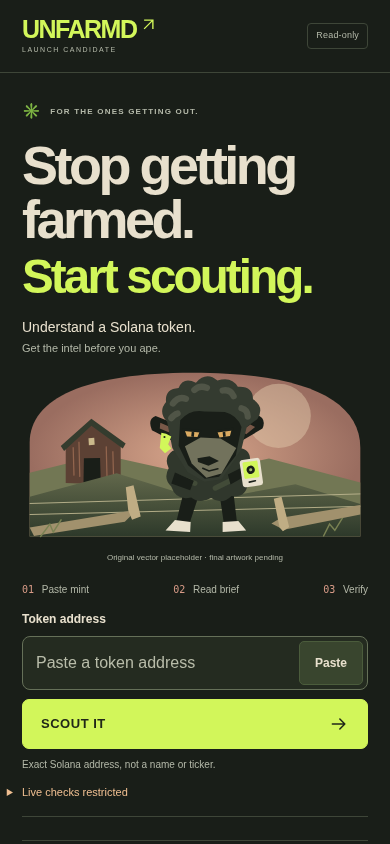
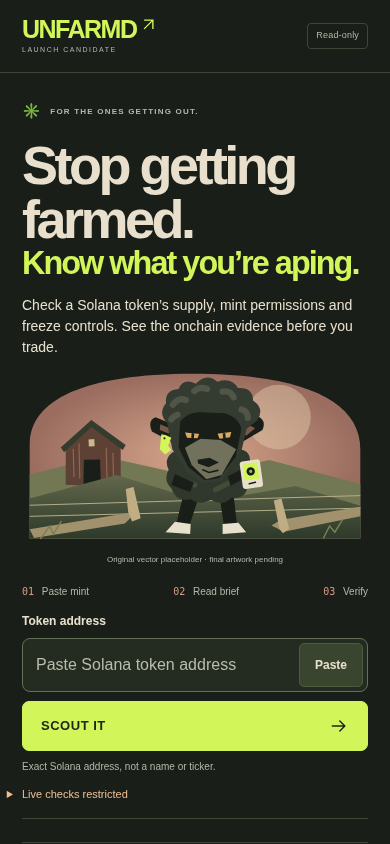
refine UNFARMD founder copy and verify first-screen CTA

diff --git a/app/consumer/home.tsx b/app/consumer/home.tsx
@@ -114,10 +114,10 @@ export default function ConsumerHome({initialInput,initialState,onchainPort,mark
   <a className="skip-link" href="#content">Skip to content</a>
   <header className="site-header"><Link className="wordmark" href="/" prefetch={false} aria-label="UNFARMD · Start over" onClick={startOver}><span className="brand-name">UNFARMD<BrandArrow/></span><span className="brand-caption">LAUNCH CANDIDATE</span></Link>{hasResult?<button id="search-another" type="button" className="secondary search-toggle" aria-expanded={searchOpen} aria-controls="token-search" onClick={toggleSearch}>Search another token</button>:<div className="header-context"><span className="brand-mission">Level the trenches.</span><span className="preview-label">Read-only</span></div>}</header>
   <main id="content" className={idle?'unfarmd-landing':hasResult&&!searchOpen?'has-answer result-compact':'has-answer'} tabIndex={-1}>
-   {idle&&<><section className="welcome" aria-labelledby="welcome-title"><p className="eyebrow"><span aria-hidden="true">✳</span> FOR THE ONES GETTING OUT.</p><h1 id="welcome-title" tabIndex={-1}>Stop getting<br/>farmed.<br/><span>Start scouting.</span></h1><p className="intro">Understand a Solana token.</p><p className="hero-aside">Get the intel before you ape.</p></section><EscapeArt/></>}
+   {idle&&<><section className="welcome" aria-labelledby="welcome-title"><p className="eyebrow"><span aria-hidden="true">✳</span> FOR THE ONES GETTING OUT.</p><h1 id="welcome-title" tabIndex={-1}>Stop getting<br/>farmed.<span>Know what you’re aping.</span></h1><p className="intro">Check a Solana token’s supply, mint permissions and freeze controls. See the onchain evidence before you trade.</p></section><EscapeArt/></>}
    {supported&&!chainReady&&<div className="capture-notice"><span className="notice-dot" aria-hidden="true"/><span><strong>Captured examples, not live data.</strong> 14 Oct 2026 · stale.</span></div>}
    <form id="token-search" aria-label="Explain a token" hidden={hasResult&&!searchOpen} onKeyDown={event=>{if(hasResult&&event.key==='Escape'){event.preventDefault();toggleSearch();}}} noValidate onSubmit={event=>{event.preventDefault();lookup(input);}}>
-    {idle&&<ol className="research-steps" aria-label="Research steps"><li><span>01</span> Paste mint</li><li><span>02</span> Read brief</li><li><span>03</span> Verify</li></ol>}<label htmlFor="mint">Token address</label><div className="search-row"><div className="address-entry"><input ref={addressInput} id="mint" name="mint" type="text" value={input} onChange={event=>{cancelPaste();setInput(event.target.value);}} placeholder="Paste a token address" autoComplete="off" autoCapitalize="off" autoCorrect="off" inputMode="text" enterKeyHint="go" spellCheck={false} maxLength={120} aria-describedby="mint-help paste-status lookup-status" aria-invalid={['empty','invalid','needs_mint'].includes(result.state)?true:undefined}/><button type="button" className="paste-address" disabled={pasting} onClick={()=>void pasteAddress()} aria-label="Paste token address">{pasting?'Reading…':'Paste'}</button></div><button type="submit" className="primary" aria-label="SCOUT IT">SCOUT IT <svg width="20" height="20" viewBox="0 0 24 24" fill="none" aria-hidden="true"><path d="M4 12h15m-6-6 6 6-6 6" stroke="currentColor" strokeWidth="1.8" strokeLinecap="round" strokeLinejoin="round"/></svg></button></div>
+    {idle&&<ol className="research-steps" aria-label="Research steps"><li><span>01</span> Paste mint</li><li><span>02</span> Read brief</li><li><span>03</span> Verify</li></ol>}<label htmlFor="mint">Token address</label><div className="search-row"><div className="address-entry"><input ref={addressInput} id="mint" name="mint" type="text" value={input} onChange={event=>{cancelPaste();setInput(event.target.value);}} placeholder="Paste Solana token address" autoComplete="off" autoCapitalize="off" autoCorrect="off" inputMode="text" enterKeyHint="go" spellCheck={false} maxLength={120} aria-describedby="mint-help paste-status lookup-status" aria-invalid={['empty','invalid','needs_mint'].includes(result.state)?true:undefined}/><button type="button" className="paste-address" disabled={pasting} onClick={()=>void pasteAddress()} aria-label="Paste token address">{pasting?'Reading…':'Paste'}</button></div><button type="submit" className="primary" aria-label="SCOUT IT">SCOUT IT <svg width="20" height="20" viewBox="0 0 24 24" fill="none" aria-hidden="true"><path d="M4 12h15m-6-6 6 6-6 6" stroke="currentColor" strokeWidth="1.8" strokeLinecap="round" strokeLinejoin="round"/></svg></button></div>
     <p id="paste-status" className="paste-status" role="status">{pasteStatus}</p>
     <p id="mint-help" className="field-help">Exact Solana address, not a name or ticker.</p>
     {hasResult&&searchOpen&&<button type="button" className="secondary cancel-search" onClick={toggleSearch}>Cancel search</button>}

diff --git a/app/consumer/unfarmd.css b/app/consumer/unfarmd.css
@@ -60,9 +60,8 @@
 .unfarmd .welcome .eyebrow { font-size: 9px; letter-spacing: 1.5px; margin-bottom: 19px; }
 .unfarmd .welcome .eyebrow > span { color: var(--coral); font-size: 18px; margin-right: 5px; vertical-align: -2px; }
 .unfarmd .welcome h1 { font-size: clamp(56px, 6.1vw, 80px); font-weight: 800; letter-spacing: -.065em; line-height: 1.01; }
-.unfarmd .welcome h1 > span { display: inline-block; white-space: nowrap; font-size: .88em; letter-spacing: -.06em; color: var(--blue); }
-.unfarmd .intro { font-size: 17px; line-height: 1.5; color: var(--ink); margin-top: 21px; }
-.unfarmd .hero-aside { font-size: 12px; color: var(--muted); margin-top: 4px; }
+.unfarmd .welcome h1 > span { display: block; white-space: nowrap; font-size: .6em; letter-spacing: -.06em; color: var(--blue); }
+.unfarmd .intro { max-width: 440px; font-size: 17px; line-height: 1.5; color: var(--ink); margin-top: 21px; }
 .unfarmd .escape-art { grid-column: 2; grid-row: 1 / 4; margin: 0 -12px 0 -20px; align-self: center; min-width: 0; }
 .unfarmd .escape-art picture { display: block; }
 .unfarmd .escape-art img { display: block; width: 100%; height: auto; aspect-ratio: 800 / 720; object-fit: contain; }
@@ -140,7 +139,9 @@
 @media (max-width: 1000px) and (min-width: 701px) {
   .unfarmd main.unfarmd-landing { width: calc(100% - 64px); gap: 20px 30px; }
   .unfarmd .welcome h1 { font-size: 58px; }
+  .unfarmd .welcome h1 > span { font-size: clamp(27px, 4vw, 34.8px); }
   .unfarmd .intro { font-size: 15px; }
+  .unfarmd input::placeholder { font-size: 14px; }
   .unfarmd .site-header { padding-left: 32px; padding-right: 32px; }
   .unfarmd .research-instruments { gap: 20px; }
   .unfarmd .research-instruments > div { gap: 10px; }
@@ -158,9 +159,8 @@
   .unfarmd .welcome .eyebrow { font-size: 8px; letter-spacing: 1.2px; margin-bottom: 15px; }
   .unfarmd .welcome .eyebrow > span { font-size: 15px; }
   .unfarmd .welcome h1 { font-size: 54px; line-height: 1.01; letter-spacing: -.065em; }
-  .unfarmd .welcome h1 > span { font-size: .88em; }
+  .unfarmd .welcome h1 > span { font-size: clamp(26px, 8.3vw, 32.4px); }
   .unfarmd .intro { font-size: 14px; margin-top: 16px; }
-  .unfarmd .hero-aside { font-size: 11px; margin-top: 2px; }
   .unfarmd .escape-art { margin: 10px 0 18px; width: 100%; align-self: center; max-width: 430px; }
   .unfarmd .escape-art img { aspect-ratio: 720 / 380; width: 100%; height: auto; }
   .unfarmd .escape-art figcaption { font-size: 8px; line-height: 1.5; margin-top: 3px; }
@@ -188,7 +188,7 @@
   .unfarmd .welcome .eyebrow { font-size: 7px; margin-bottom: 12px; }
   .unfarmd .welcome h1 { font-size: 46px; }
   .unfarmd .intro { font-size: 13px; margin-top: 13px; }
-  .unfarmd .hero-aside { font-size: 10px; }
+  .unfarmd input::placeholder { font-size: 14px; }
   .unfarmd .escape-art { margin-top: 8px; margin-bottom: 14px; }
   .unfarmd .escape-art figcaption { font-size: 8px; }
   .unfarmd-landing .research-steps { margin-bottom: 11px; font-size: 9px; }

diff --git a/docs/unfarmd-consumer-v1/QA.md b/docs/unfarmd-consumer-v1/QA.md
@@ -30,7 +30,9 @@ For just the new integration tests, use `--config tests/consumer-homepage/unfarm
 - Tests retain precision, original identity, programs/extensions, provenance/clock, stale expiry, failure/cooldown, concern derivation and separate dated StonkFun publication limits. No gate or validator was changed to obtain a pass.
 - Three old landing assertions expecting all dated examples in the first viewport now check the primary action instead, matching the selected hero/input priority; examples remain reachable and all historical risk/rights-first-viewport assertions remain. CTA names/master-brand assertions follow the approved copy. Old V3 regeneration outputs now go to ignored cache, preserving committed historical screenshots.
 
-## Results
+## Initial implementation results
+
+These full-suite results were recorded before the final founder-copy refinement (commit `026510a2`). The separate final-copy verification below records what was rerun.
 
 Local toolchain: **Node 20.20.2, npm 11.9.0, TypeScript 5.9.3, Next 15.5.28, Chromium 154.0.8037.57**. The existing pinned Playwright/axe toolchain is unchanged. No new dependency or lockfile changes.
 
@@ -46,19 +48,39 @@ Local toolchain: **Node 20.20.2, npm 11.9.0, TypeScript 5.9.3, Next 15.5.28, Chr
 | Full consumer Chromium suite (`--workers 2`) | Exit 0; **150 passed in 3.3m**, no failures/skips/retries. All 135 existing scenarios plus 15 new branding/integration scenarios at 320/390/1280. **0 axe violations** in asserted states; new tests assert **0 external requests, 0 page errors and GET-only API methods**. |
 | `git diff --check` | Exit 0. |
 
+### Final founder-copy refinement
+
+The first screen now uses the founder’s exact headline, second line, description and “Paste Solana token address” placeholder. **SCOUT IT**, the sheep/scanner and all analyzer behavior remain. “Stop getting farmed. Start scouting.” stays on the unchanged social preview as the campaign tagline; “Level the trenches.” stays the mission. Only hero text sizing/wrapping and placeholder sizing were adjusted to fit the longer copy. Entered addresses remain **16px**. The redundant old hero aside and its unused rules were removed.
+
+The final production build was checked with:
+
+```sh
+npx tsc --noEmit
+npm run lint
+npm run build
+bash scripts/archive-tool.sh check origin/main
+node experiments/consumer-mvp/web/node_modules/@playwright/test/cli.js test --config tests/consumer-homepage/playwright.config.mjs tests/consumer-homepage/browser.spec.mjs tests/consumer-homepage/readiness.browser.spec.mjs tests/consumer-homepage/unfarmd.browser.spec.mjs --workers 2
+```
+
+**Final results:** TypeScript, lint, production build and archive check all exit **0**. The focused Chromium run passes **63/63** at 320/390/1280, with **0 axe violations**, no failed/skipped/retried tests, no page errors and zero external requests in the UNFARMD integration checks. The refreshed landing captures and geometry below are from this final production build.
+
+The focused tests cover the three affected browser files, exact copy, full placeholder fit, CTA visibility/hit target, mobile image selection, keyboard/clipboard, history/share/reset, three dated examples, rights warnings, honest source failures, labeled offline replays and actual social PNG. No assertion permits guessed facts, a hidden source warning or provider requests. Latest root CI is linked from PR #137; no workflow was modified or manually dispatched.
+
+Additional read-only Chromium spot checks at **360×780, 375×812, 701×900, 768×900 and 1000×900** verify the CTA fits, the heading text stays inside its box, the full placeholder fits and no horizontal overflow occurs; see [recorded geometry](copy-fit-additional-widths.json). These are browser emulations, not physical iPhones.
+
 ### Performance scope
 
 The Next build reports homepage **first-load JS 133 kB → 134 kB** and route JS **21.2 kB → 22.4 kB**. These are rounded build-tool values, not mobile field benchmarks or an invented Lighthouse score. No remote font, image service or new client dependency. Current local hero assets are **4,222 bytes desktop / 3,525 mobile** (gzip measurements **1,780 / 1,545**), avatar **1,348 bytes** (674 gzip), crew **1,763** (799 gzip). The mobile source is independently recomposed and verified through `currentSrc`, not a blind desktop crop. Final owner art will need its own performance review.
 
 ### Browser evidence
 
-**40 genuine PNG artifacts**: 12 current-main baseline captures, 27 candidate browser captures and one actual 1200×630 social-image HTTP response. Three `layout-{width}.json` files record first-screen geometry and axe results. Three `actual-get-{width}.json` files preserve real local **403/access_denied**, null facts/source and the explicit offline market stub; these are admission evidence, not provider/canary observations.
+**40 genuine PNG artifacts**: 12 current-main baseline captures, 27 candidate browser captures and one actual 1200×630 social-image HTTP response. The six landing captures were refreshed for the final founder copy; existing result-state captures retain their original implementation evidence. Three `layout-{width}.json` files record final first-screen geometry and axe results. Three `actual-get-{width}.json` files preserve real local **403/access_denied**, null facts/source and the explicit offline market stub; these are admission evidence, not provider/canary observations.
 
 | Width / height | SCOUT IT bottom | Source-restriction disclosure bottom |
 | --- | --- | --- |
-| 320 / 740 | 662.2px | 727.7px |
-| 390 / 844 | 749.2px | 817.2px |
-| 1280 / 900 | 675.0px | 753.0px |
+| 320 / 740 | 664.6px | 730.1px |
+| 390 / 844 | 750.9px | 818.9px |
+| 1280 / 900 | 672.5px | 750.5px |
 
 The long GP historical example’s critical financial/rights warning remains in the 320px first viewport, including with `:has()` selectors removed. All three exact dated identities, source URLs/hashes, ownership caveats and publication boundaries remain covered. The genuine branded image responds **HTTP 200**, `image/png`, PNG signature and **1200×630** verified by decoding its bytes. Existing legacy routes, their headers, no-JS historical rendering and original token OG contracts pass.
 

diff --git a/docs/unfarmd-consumer-v1/IPHONE.md b/docs/unfarmd-consumer-v1/IPHONE.md
@@ -2,7 +2,7 @@
 
 Prepared checklist, **not conducted**. Chromium touch emulation and automated axe do not establish physical Safari or VoiceOver behavior. Use only an owner-approved candidate build and source policy. This checklist does not authorize a deployment, Helius request, canary retry or source activation.
 
-1. **First screen:** portrait on a small iPhone, then landscape. Read UNFARMD, “Understand a Solana token”, placeholder/launch status and “SCOUT IT”. The sheep must be recognizable and the CTA/source warning visible without horizontal scrolling. Check default and enlarged text; form remains usable if an image is blocked.
+1. **First screen:** portrait on a small iPhone, then landscape. Read UNFARMD, “Stop getting farmed.” / “Know what you’re aping.”, the supply/permissions/freeze-controls description, “Paste Solana token address”, launch status and “SCOUT IT”. The sheep must be recognizable and the CTA/source warning visible without horizontal scrolling. Check default and enlarged text; form remains usable if an image is blocked.
 2. **Paste intentionally:** deny and allow clipboard access; native long-press Paste; type an address. No keyboard focus zoom from the 16px field. Pasting alone must never submit. The keyboard should dismiss after deliberate SCOUT IT; extra spaces, names, links and recovery phrases must not become a different address.
 3. **Source unavailable:** with the existing disabled/denied source, hear/read that nothing was verified, not “bad token” or “safe”. Loading shows skeleton/unknown controls, never sample supply. Rate limits use explicit cooldown and manual retry; no background retry or original-canary budget reuse.
 4. **VoiceOver:** navigate wordmark/start over, labeled address, Paste, SCOUT IT, errors, focused result, concerns, exact source/time/slot and disclosure summaries. Read the full exact mint; open/close evidence and return focus with Escape on a keyboard. No character/decoration should be mistaken for a verification badge.

diff --git a/docs/unfarmd-consumer-v1/README.md b/docs/unfarmd-consumer-v1/README.md
@@ -6,7 +6,7 @@ This changes the actual Next.js `/` consumer: **paste an exact mint → delibera
 
 ## What changed
 
-- **UNFARMD** is the homepage master brand, with “Stop getting farmed. Start scouting.”, “SCOUT IT” and “Level the trenches.” The black sheep leads: skeptical amber eyes, thick charcoal wool, broken tag, compact optical scanner. Charcoal/bone surfaces, acid-lime instrument cues and a dusty-coral dusk replace the V3 blue-black palette.
+- **UNFARMD** is the homepage master brand. The final founder headline is “Stop getting farmed.” / “Know what you’re aping.”, with “Check a Solana token’s supply, mint permissions and freeze controls. See the onchain evidence before you trade.” The input says “Paste Solana token address”; the action remains **SCOUT IT**. “Stop getting farmed. Start scouting.” remains the broader campaign tagline on the social preview; “Level the trenches.” remains the mission. The black sheep leads: skeptical amber eyes, thick charcoal wool, broken tag, compact optical scanner. Charcoal/bone surfaces, acid-lime instrument cues and a dusty-coral dusk replace the V3 blue-black palette.
 - The original illustration has **separate mobile and desktop compositions**. One sheep leads the first viewport; supporting animals live in an optional below-fold lore disclosure. The illustration disappears on results so evidence and concerns keep their space.
 - The real controlled form, original `lookup`, URL/history/share behavior, paste race cancellation, manual retry/cooldown and `TokenResearch` wiring remain. There is no new resolver, request client, format-only result, synthetic URL flag or backend contract.
 - **PULSE** links to existing CARDS pair research, labeled research-only with financial figures withheld. **RECEIPTS** links to the dated source index. Neither link claims current prices, signals, complete coverage, holder/LP verification or returns. Link prefetch is disabled.
